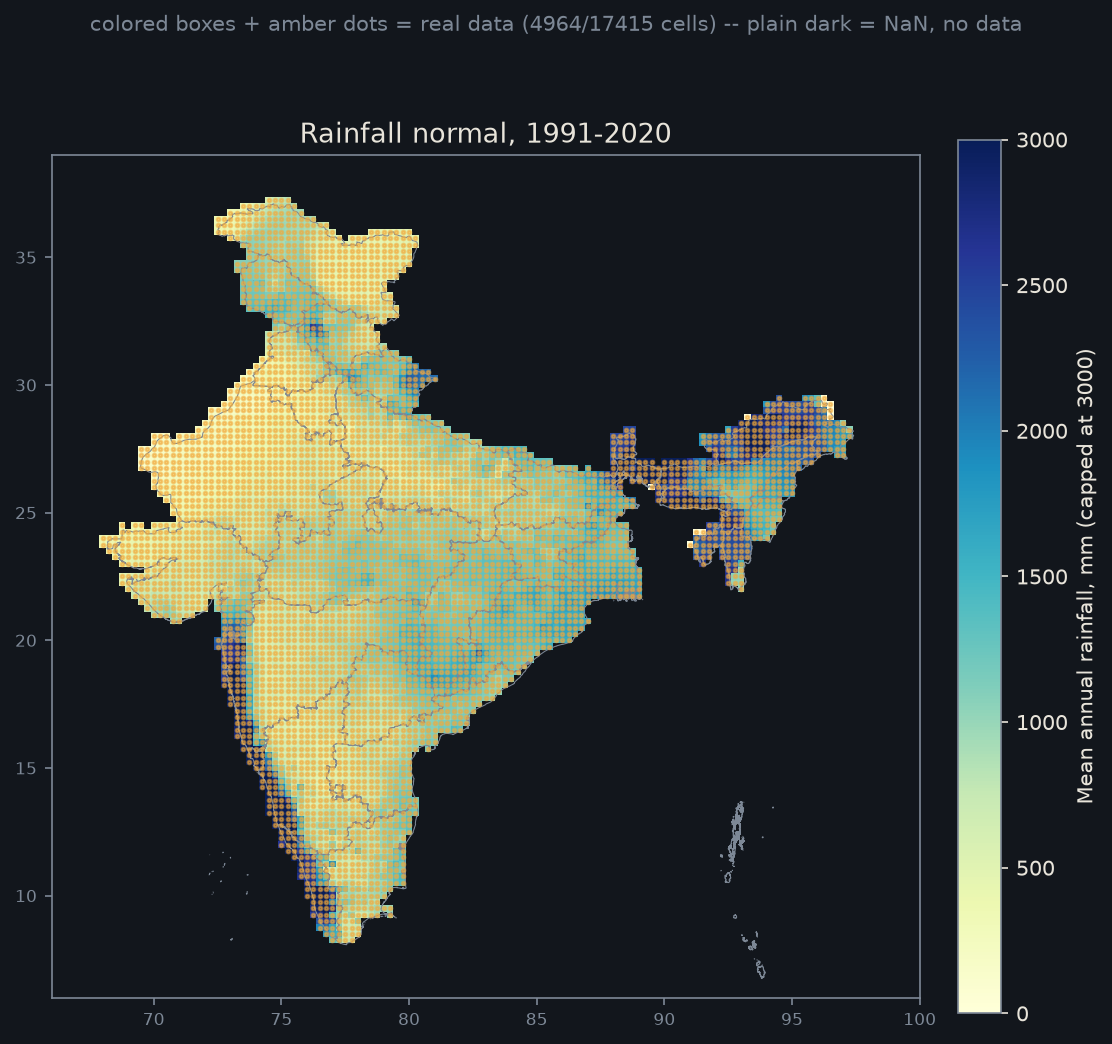
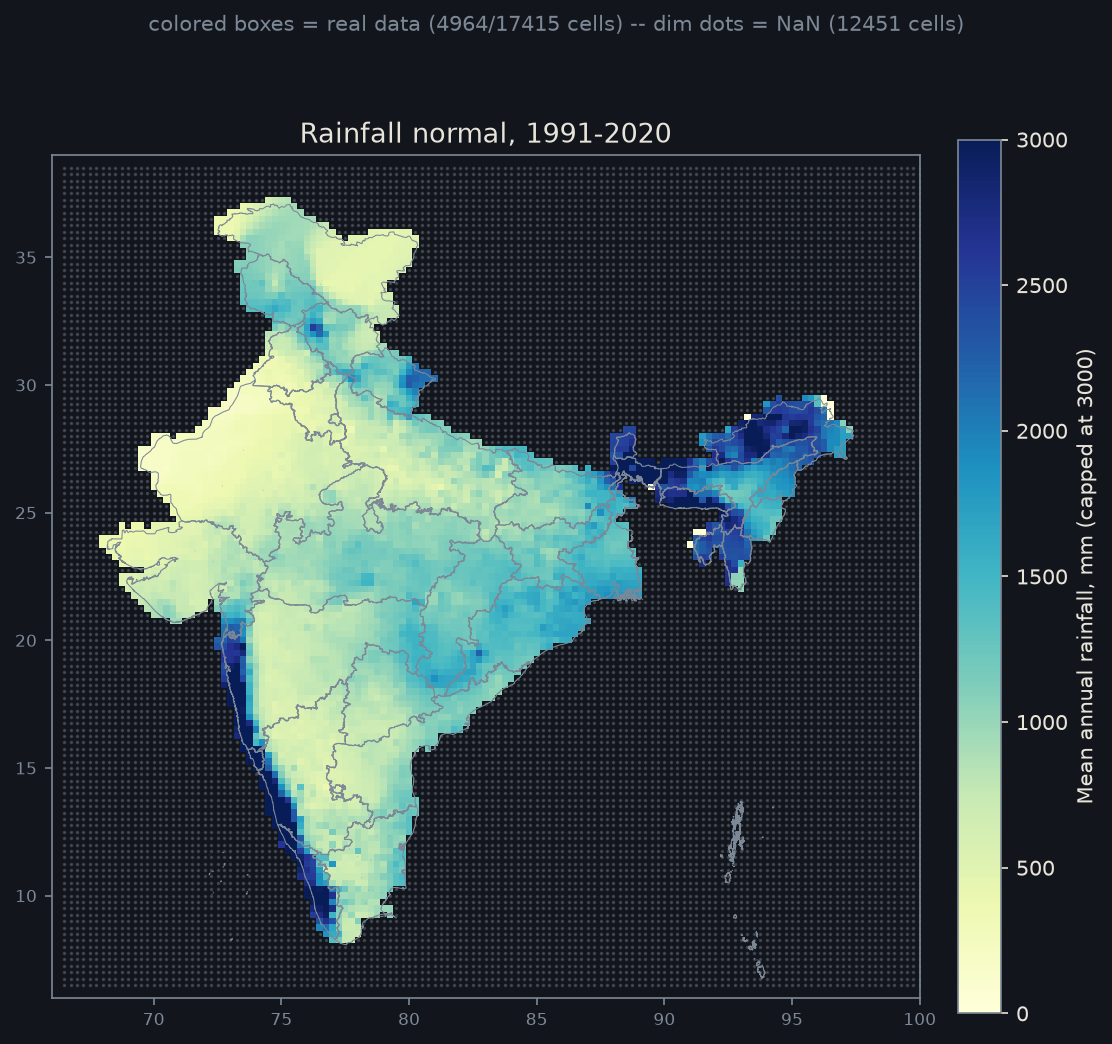
Mark NaN cells with dots instead of valid ones on the NaN-vs-data slide

Changed region(s): [[0.0612, 0.1533, 0.8255, 0.9502], [0.0917, 0.0, 0.9173, 0.0307]]

diff --git a/slides.md b/slides.md
@@ -111,11 +111,11 @@ Bloom's (Analyze): Why does rainfall get a sum-then-mean treatment here while te
 ## Where's the data, where's the gap?
 
 <div style="display:flex;gap:14px;justify-content:center;">
-<img src="/static/nan-rainfall-normal.png" alt="All-India rainfall normal raster with grid points overlaid, showing valid data vs NaN" width="440">
-<img src="/static/nan-tmean-avg.png" alt="All-India average Tmean raster, showing valid data vs NaN" width="440">
+<img src="/static/nan-rainfall-normal.png" alt="All-India rainfall normal raster with NaN cells marked by dim dots" width="440">
+<img src="/static/nan-tmean-avg.png" alt="All-India average Tmean raster with NaN cells marked by dim dots" width="440">
 </div>
 
-Note: Same 1991-2020 data, zoomed out to all of India, to make the pitfalls-slide point visible on an actual map. IMD's grid is a rectangle over India's lat/lon box -- most of that rectangle is ocean, or Pakistan, China, Nepal, Myanmar. Left map: colored boxes plus amber dots mark real data (4964 of 17415 cells, 28.5%); everywhere else is plain dark background -- NaN, not zero, not missing-by-accident, just never had land there. The dots stop exactly at the coastline and borders. Right map: Tmean = (Tmax+Tmin)/2, the standard meteorological approximation for daily mean temperature, averaged directly across all 30 years of daily values (not summed, same rule as always for temperature) -- only 360 of 961 cells (37.5%) on the coarser 1 degree grid, the Himalayan north visibly cooler than the rest of the country.
+Note: Same 1991-2020 data, zoomed out to all of India, to make the pitfalls-slide point visible on an actual map. IMD's grid is a rectangle over India's lat/lon box -- most of that rectangle is ocean, or Pakistan, China, Nepal, Myanmar. Left map: colored boxes are real data (4964 of 17415 cells, 28.5%); the dim dots mark every NaN cell (12451 of them) -- not zero, not missing-by-accident, just never had land there. The dotted stippling stops exactly at the coastline and borders, so India's outline emerges as the clean, undotted shape. Right map: Tmean = (Tmax+Tmin)/2, the standard meteorological approximation for daily mean temperature, averaged directly across all 30 years of daily values (not summed, same rule as always for temperature) -- only 360 of 961 cells (37.5%) on the coarser 1 degree grid, dots for the other 601, Himalayan north visibly cooler than the rest of the country.
 
 ---
 
